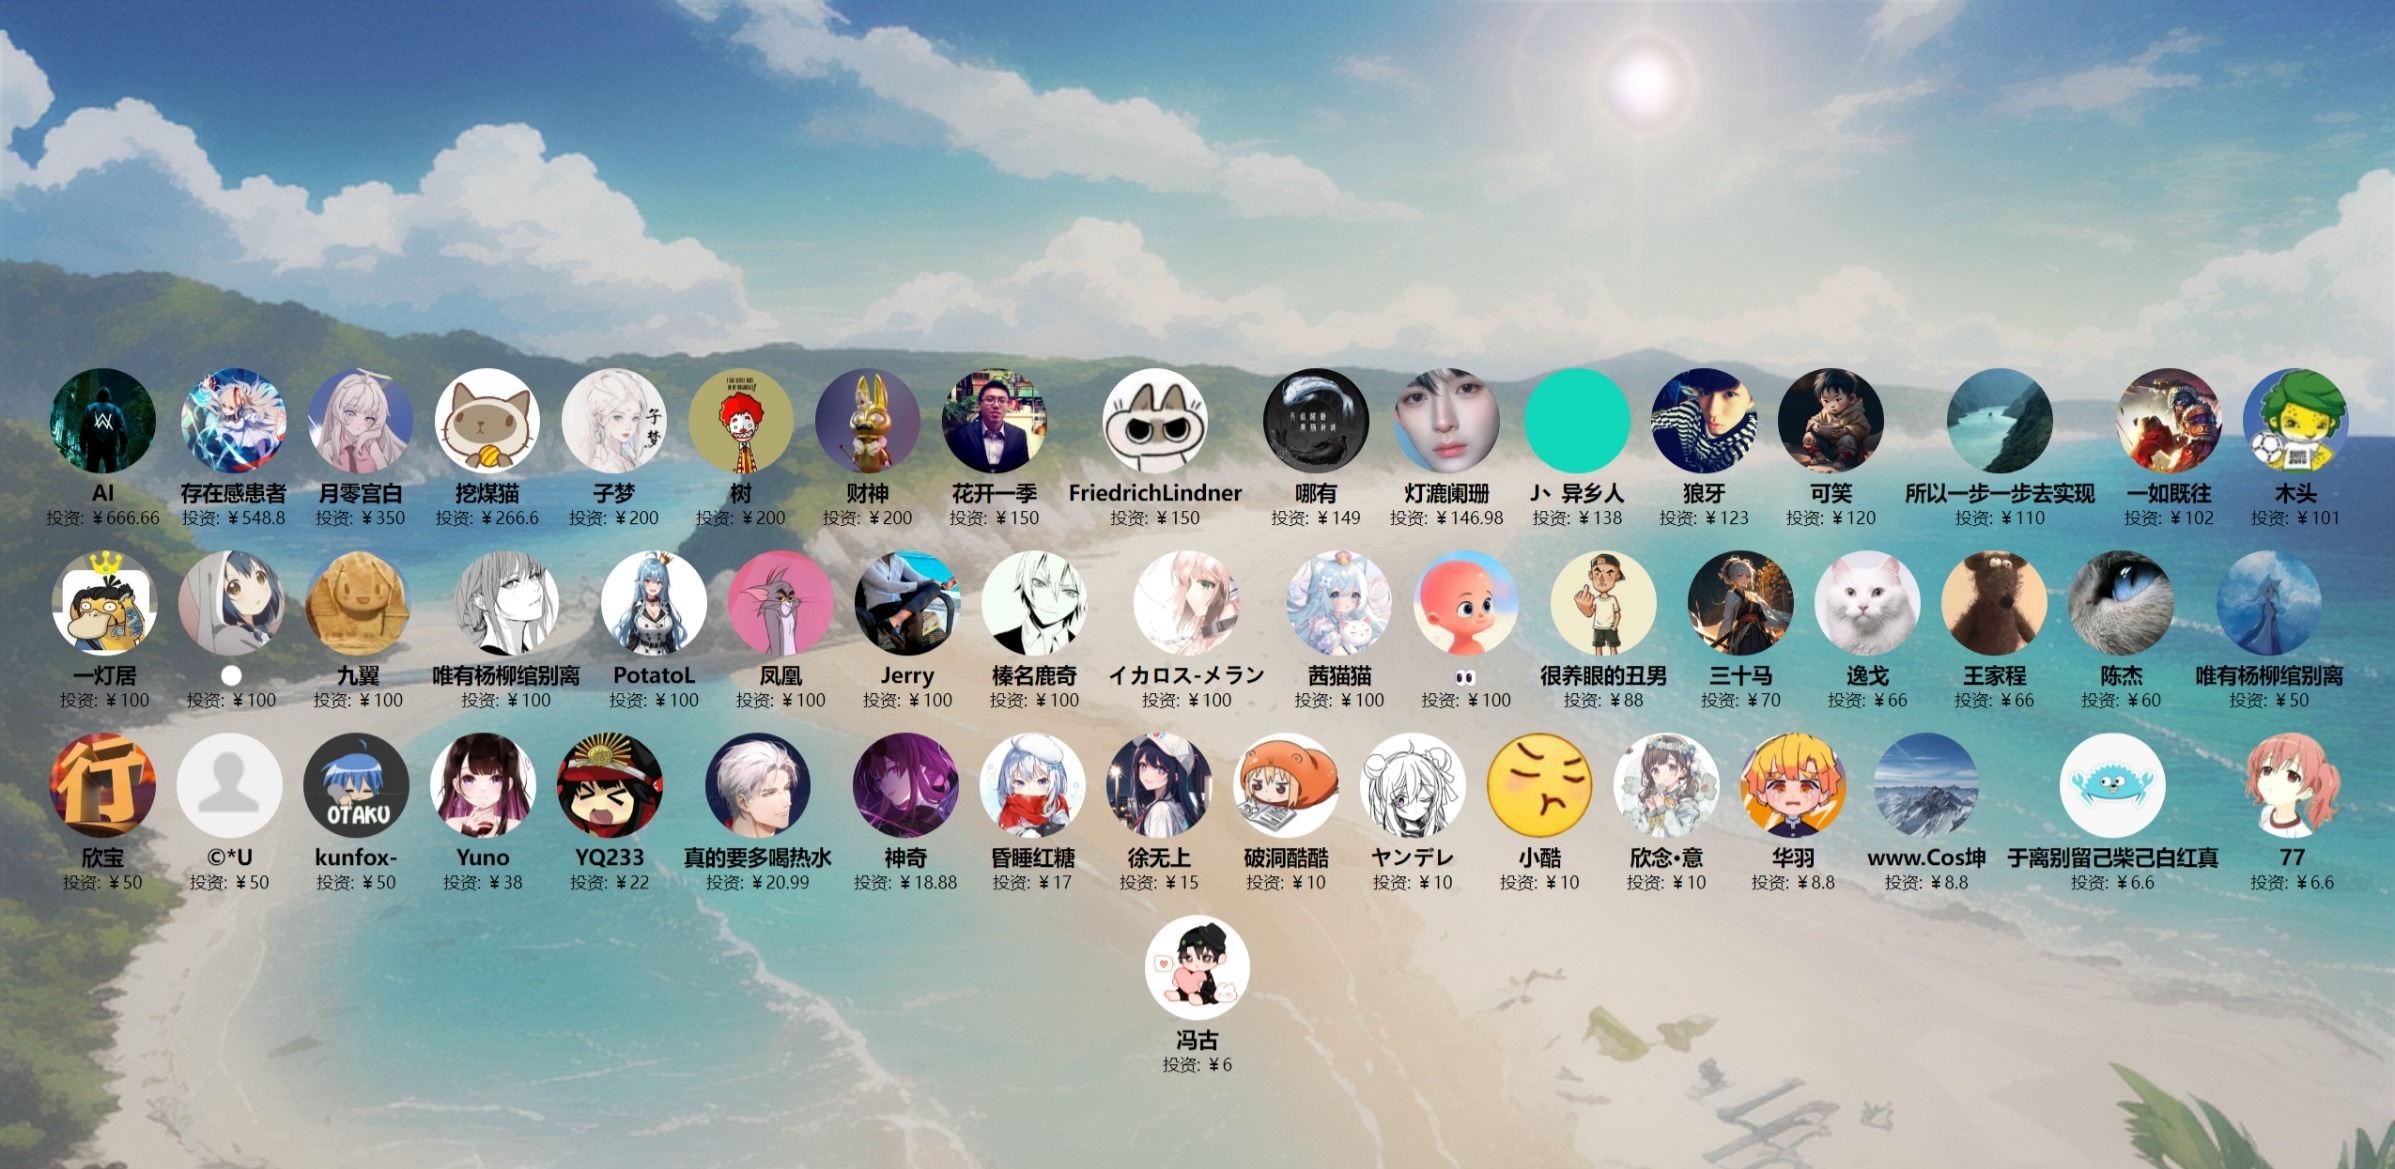
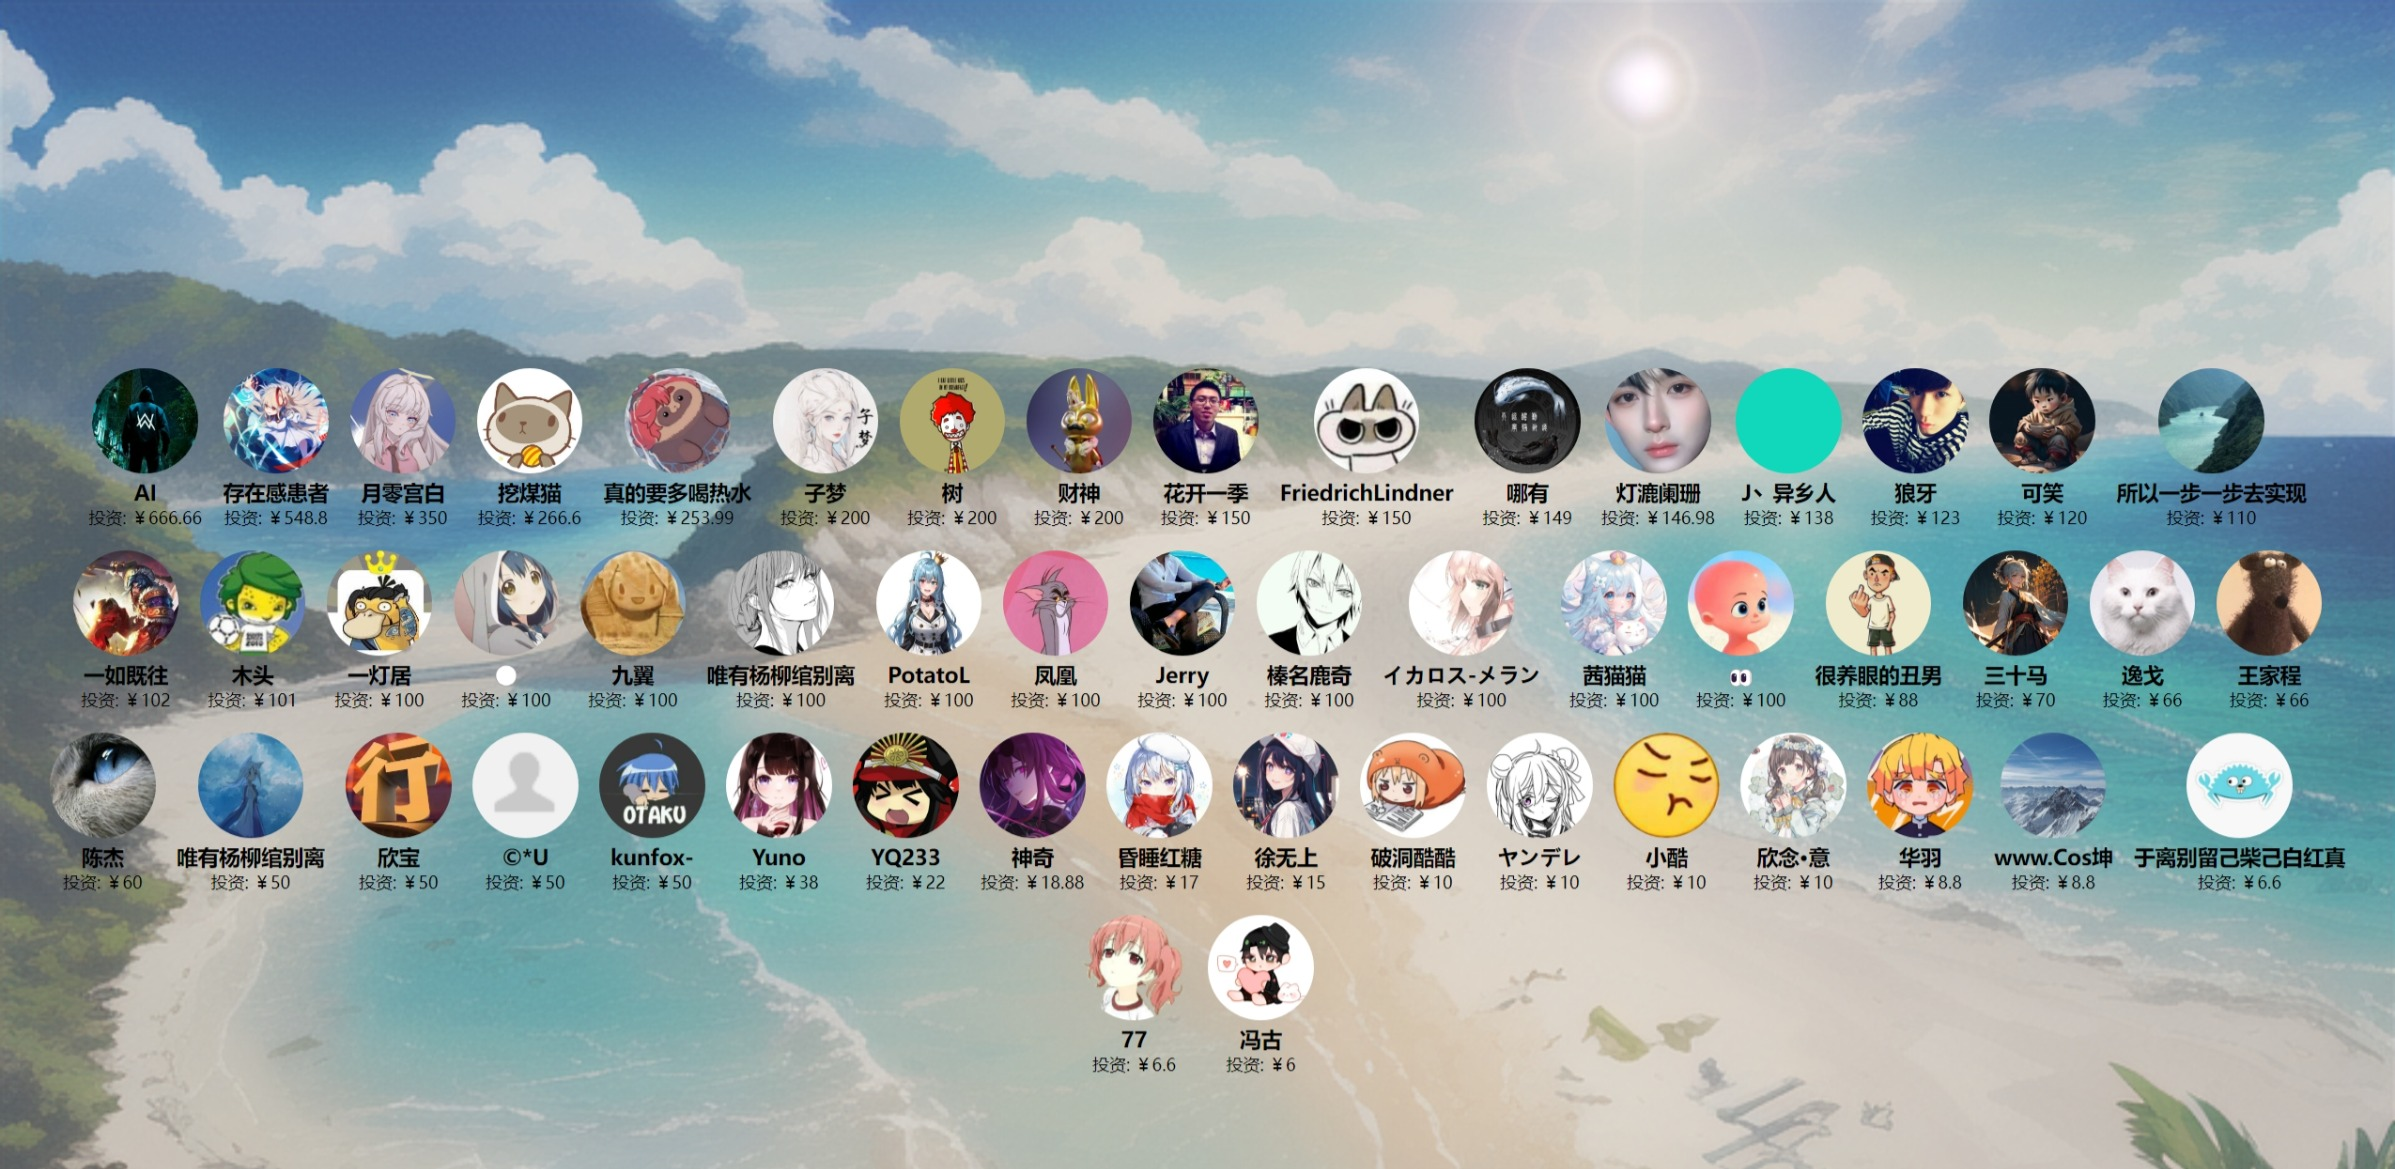
更新投资人

Changed region(s): [[0.0, 0.308, 0.9887, 0.9239]]

diff --git a/docs/投资人/index.html b/docs/投资人/index.html
@@ -72,6 +72,11 @@
             amount: "￥266.6"
         },
         {
+            name: "真的要多喝热水",
+            avatar: "https://images.cnblogs.com/cnblogs_com/ikaros-521/2328032/o_231122140807_QQ%E5%9B%BE%E7%89%8720231122220722.jpg",
+            amount: "￥253.99"
+        },
+        {
             name: "子梦",
             avatar: "https://images.cnblogs.com/cnblogs_com/ikaros-521/2328032/o_230730083335_%E5%BE%AE%E4%BF%A1%E5%9B%BE%E7%89%87_20230730163219.jpg",
             amount: "￥200"
@@ -245,11 +250,6 @@
             name: "YQ233",
             avatar: "https://images.cnblogs.com/cnblogs_com/ikaros-521/2328032/o_230719132530_QQ%E5%9B%BE%E7%89%8720230719212443.jpg",
             amount: "￥22"
-        },
-        {
-            name: "真的要多喝热水",
-            avatar: "https://images.cnblogs.com/cnblogs_com/ikaros-521/2328032/o_230814144413_QQ%E5%9B%BE%E7%89%8720230814224327.jpg",
-            amount: "￥20.99"
         },
         {
             name: "神奇",
